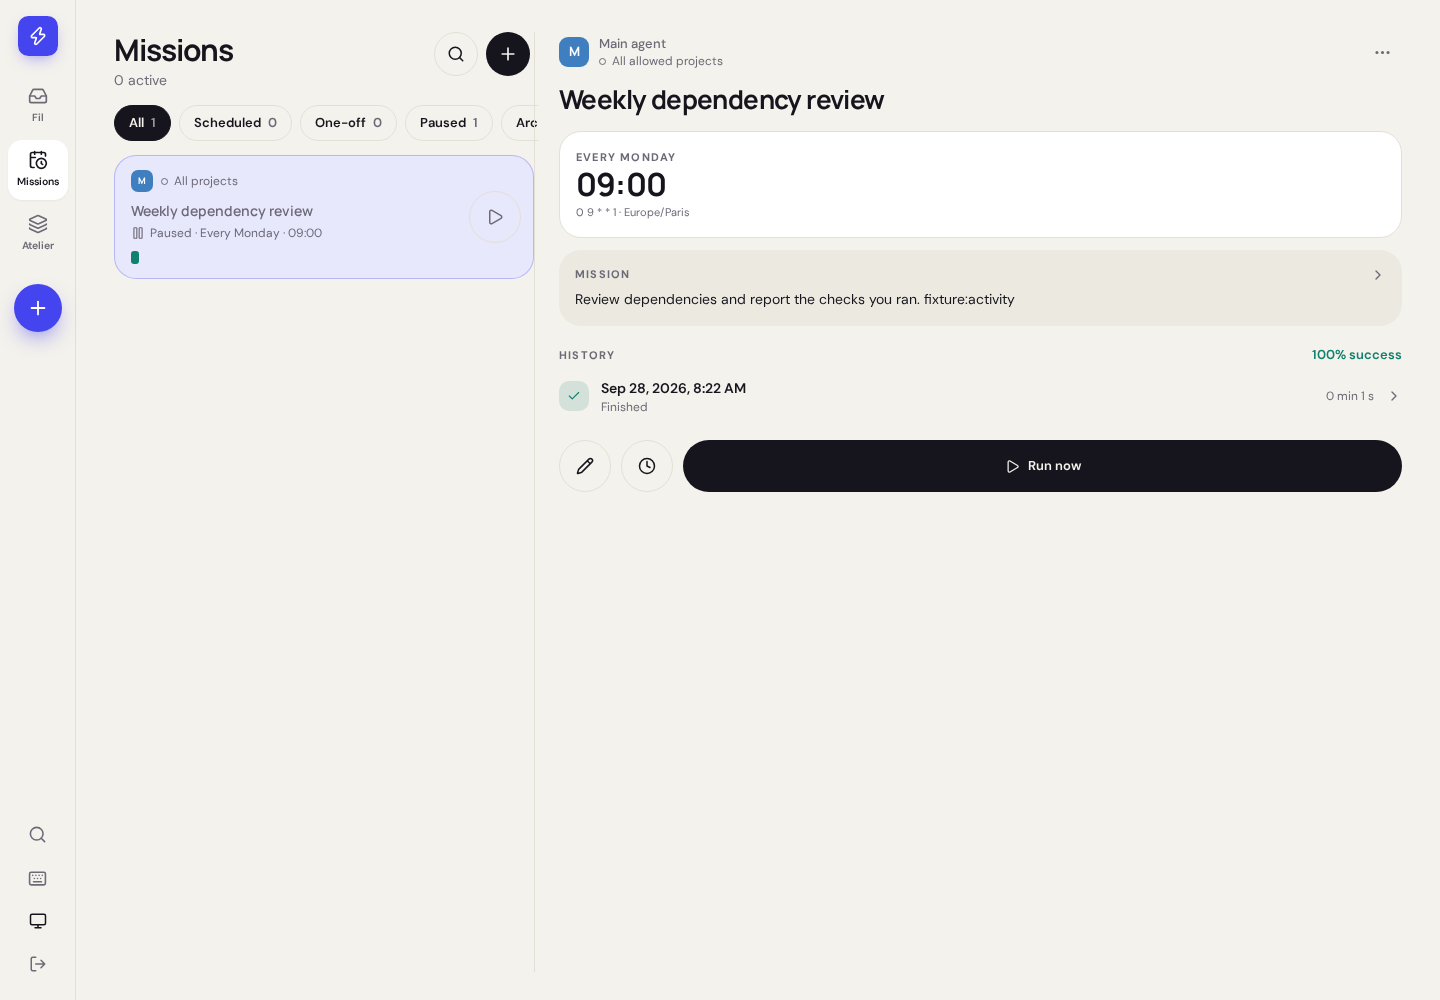
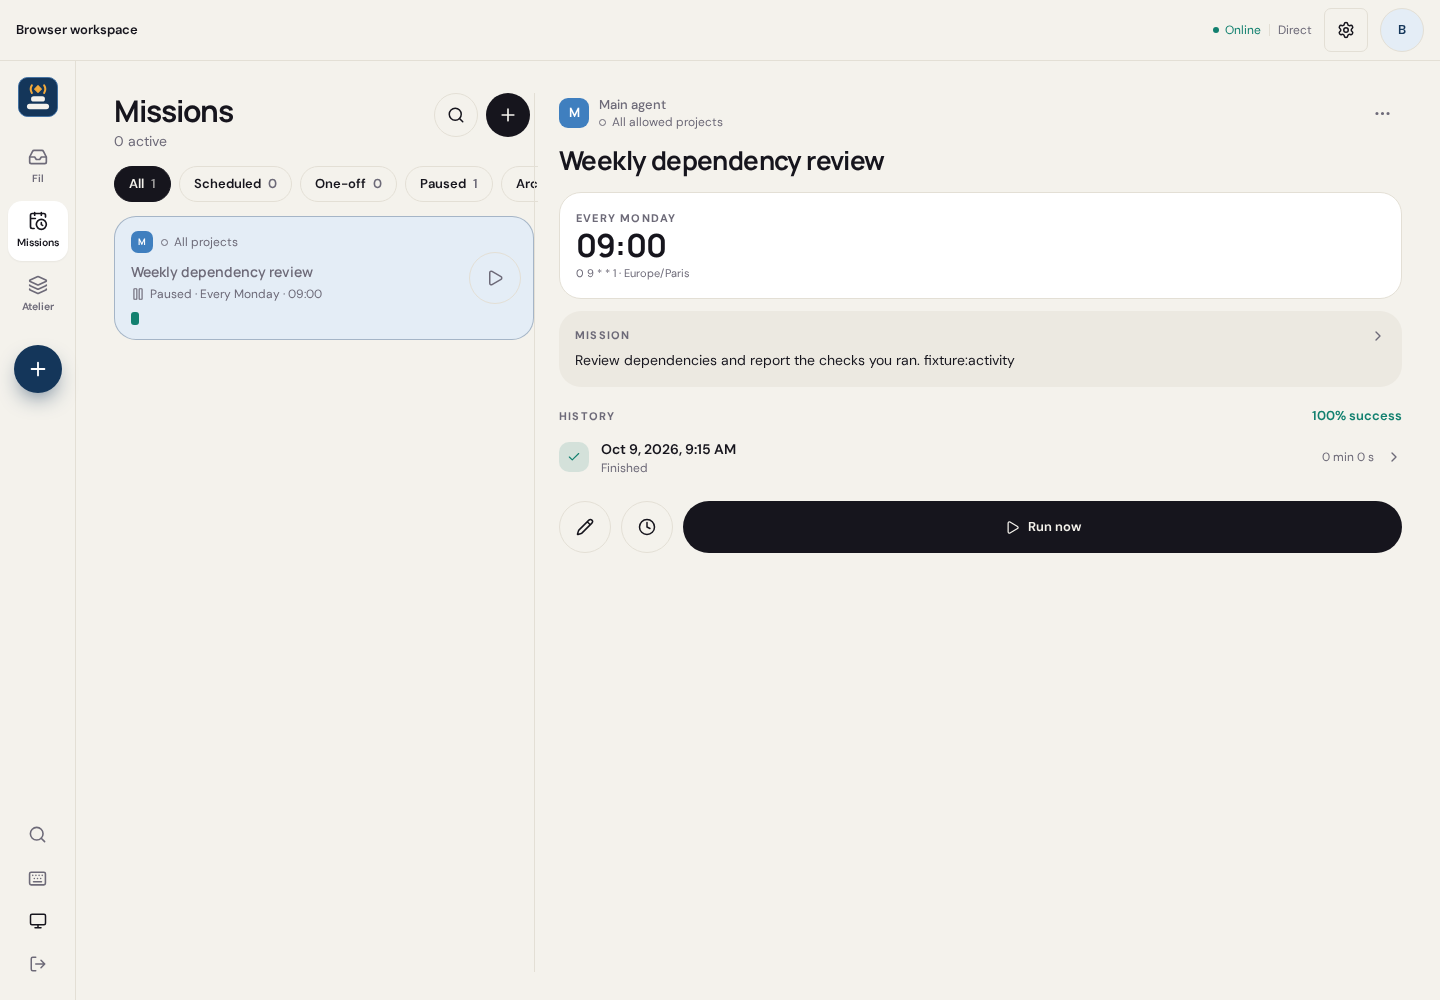
fix: complete moved fixtures and Cairn theme contracts

diff --git a/apps/web/src/components/ArtifactSharing.vue b/apps/web/src/components/ArtifactSharing.vue
@@ -69,7 +69,7 @@ void refresh()
         @focus="($event.target as HTMLInputElement).select()"
       >
       <div class="flex flex-wrap gap-2">
-        <button :disabled="busy" class="rounded-lg bg-brand phone:min-h-11 px-3 py-2 text-xs text-white disabled:opacity-50" @click="copy">
+        <button :disabled="busy" class="rounded-lg bg-brand phone:min-h-11 px-3 py-2 text-xs text-on-brand disabled:opacity-50" @click="copy">
           Copy public link
         </button>
         <button

diff --git a/apps/web/tests/signal.test.ts b/apps/web/tests/signal.test.ts
@@ -219,7 +219,7 @@ describe('the working indicator', () => {
   })
 
   it('keeps identity colours stable and shared with Android', () => {
-    // Kotlin: Math.floorMod("cairn".hashCode(), 8) == 94425239 % 8 == 7
+    // Kotlin: Math.floorMod("cairn".hashCode(), 8) == 94422855 % 8 == 7
     expect(identityColor('cairn')).toBe('#5E6B2E')
     expect(identityColor('main')).toBe(identityColor('main'))
   })

diff --git a/apps/web/src/styles/shell.css b/apps/web/src/styles/shell.css
@@ -411,8 +411,8 @@ h2 {
     color: var(--color-accent);
   }
   .mobile-bottom-nav > a.mobile-new-task {
-    background: #14365a;
-    color: #fff;
+    background: var(--color-brand);
+    color: var(--color-on-brand);
     width: 36px;
     height: 36px;
     border: 1px solid light-dark(#292943, #346aa3);

diff --git a/crates/beacon/tests/public_mcp.rs b/crates/beacon/tests/public_mcp.rs
@@ -283,7 +283,7 @@ async fn oauth_pkce_registration_rotation_and_reuse_are_bound_to_the_selected_in
 async fn an_external_mcp_connection_returns_through_the_official_installation_and_account() {
     use tokio::io::{AsyncBufReadExt, BufReader};
 
-    let provider_script = "import { mcpProvider } from './tests/mcp-provider.ts'; const p = await mcpProvider(); console.log(p.origin); await new Promise(() => {});";
+    let provider_script = "import { mcpProvider } from './tests/fixtures/mcp-provider.ts'; const p = await mcpProvider(); console.log(p.origin); await new Promise(() => {});";
     let mut provider = tokio::process::Command::new("node")
         .args([
             "--import",

diff --git a/crates/installation/tests/mcps.rs b/crates/installation/tests/mcps.rs
@@ -536,7 +536,7 @@ async fn official_clients_negotiate_modern_and_legacy_protocols_and_enforce_scop
 
 /// Runs the OAuth provider fixture and reports its counters on demand.
 const OAUTH_PROVIDER: &str = r"
-import { mcpProvider } from './tests/mcp-provider.ts';
+import { mcpProvider } from './tests/fixtures/mcp-provider.ts';
 import { createInterface } from 'node:readline';
 const provider = await mcpProvider();
 console.log(provider.origin);
